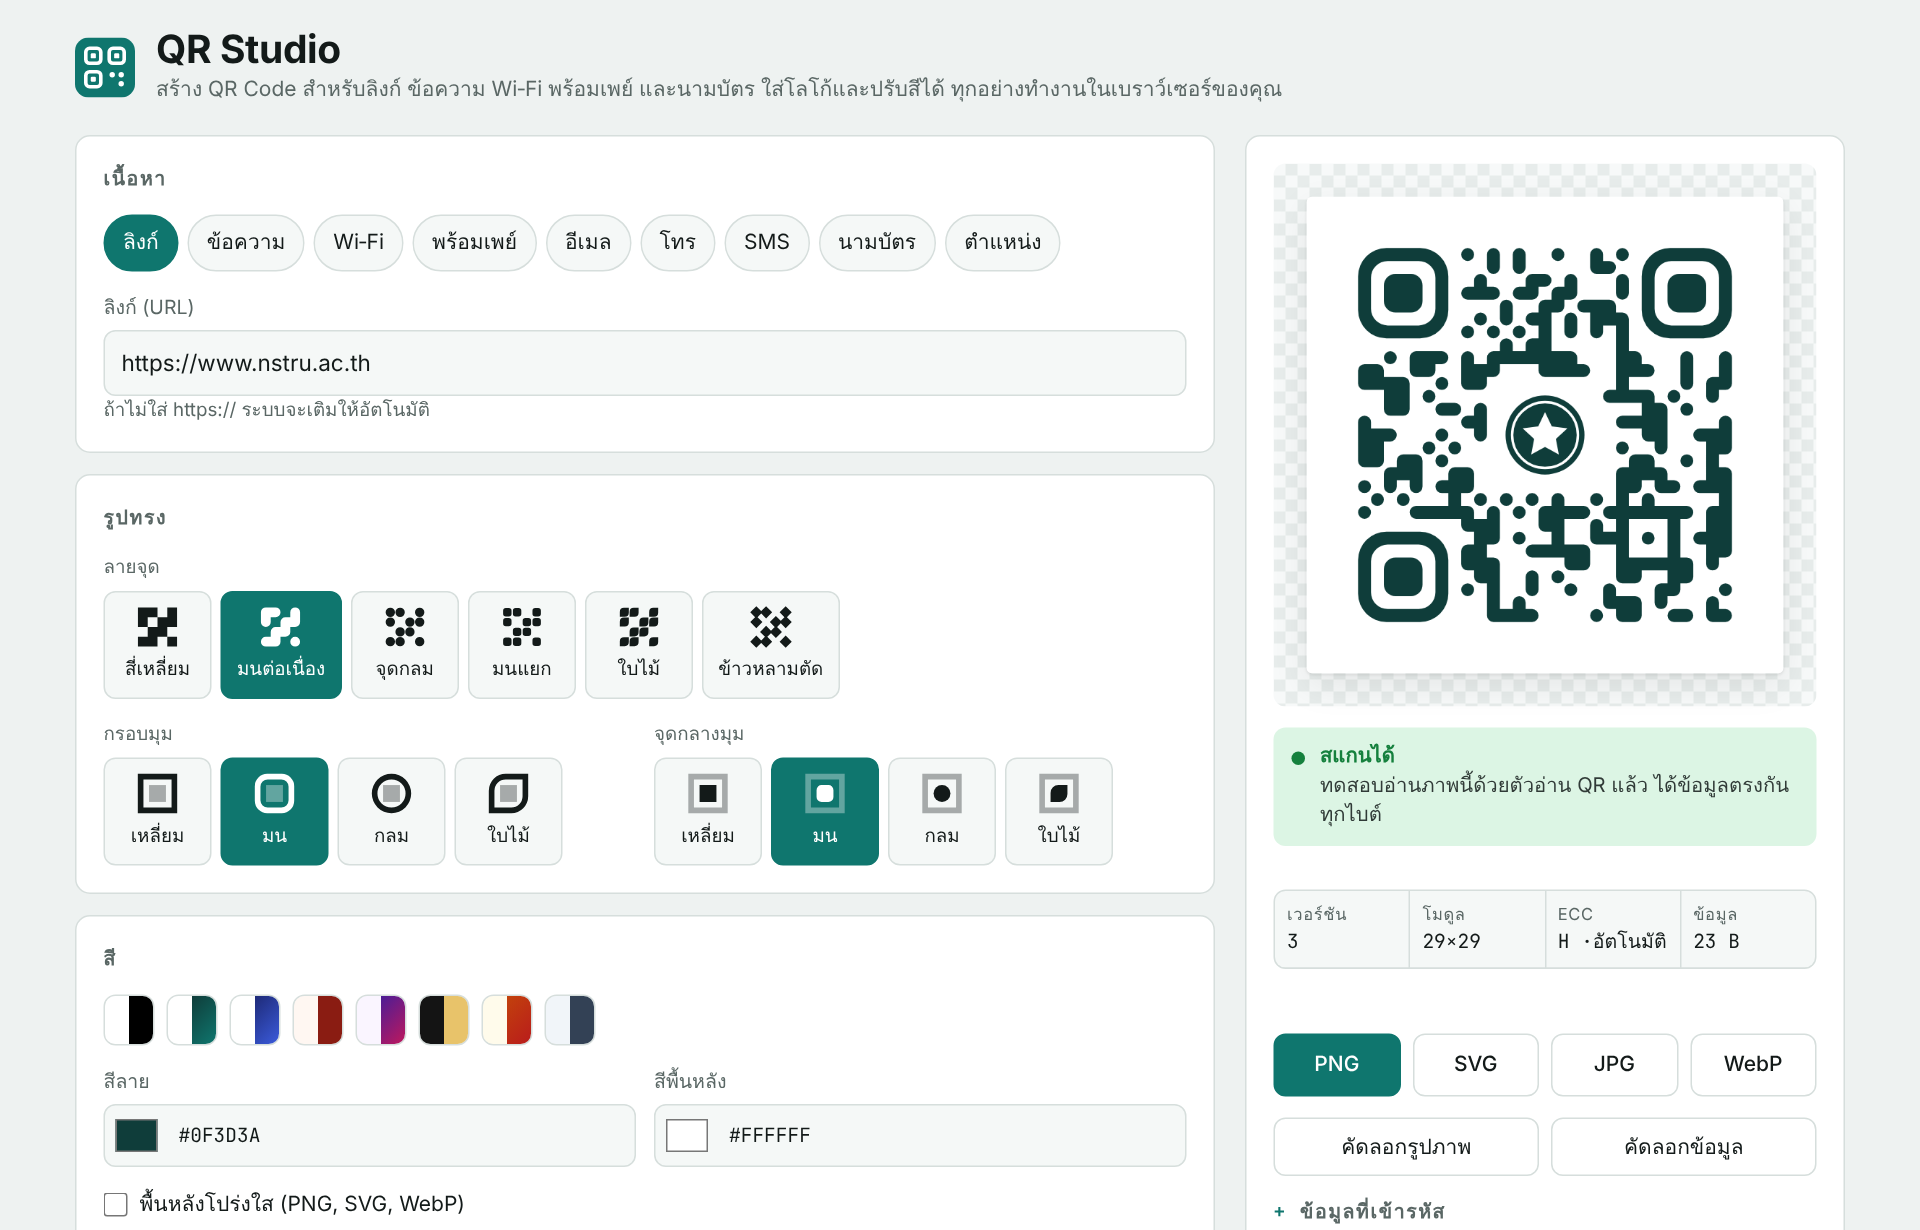
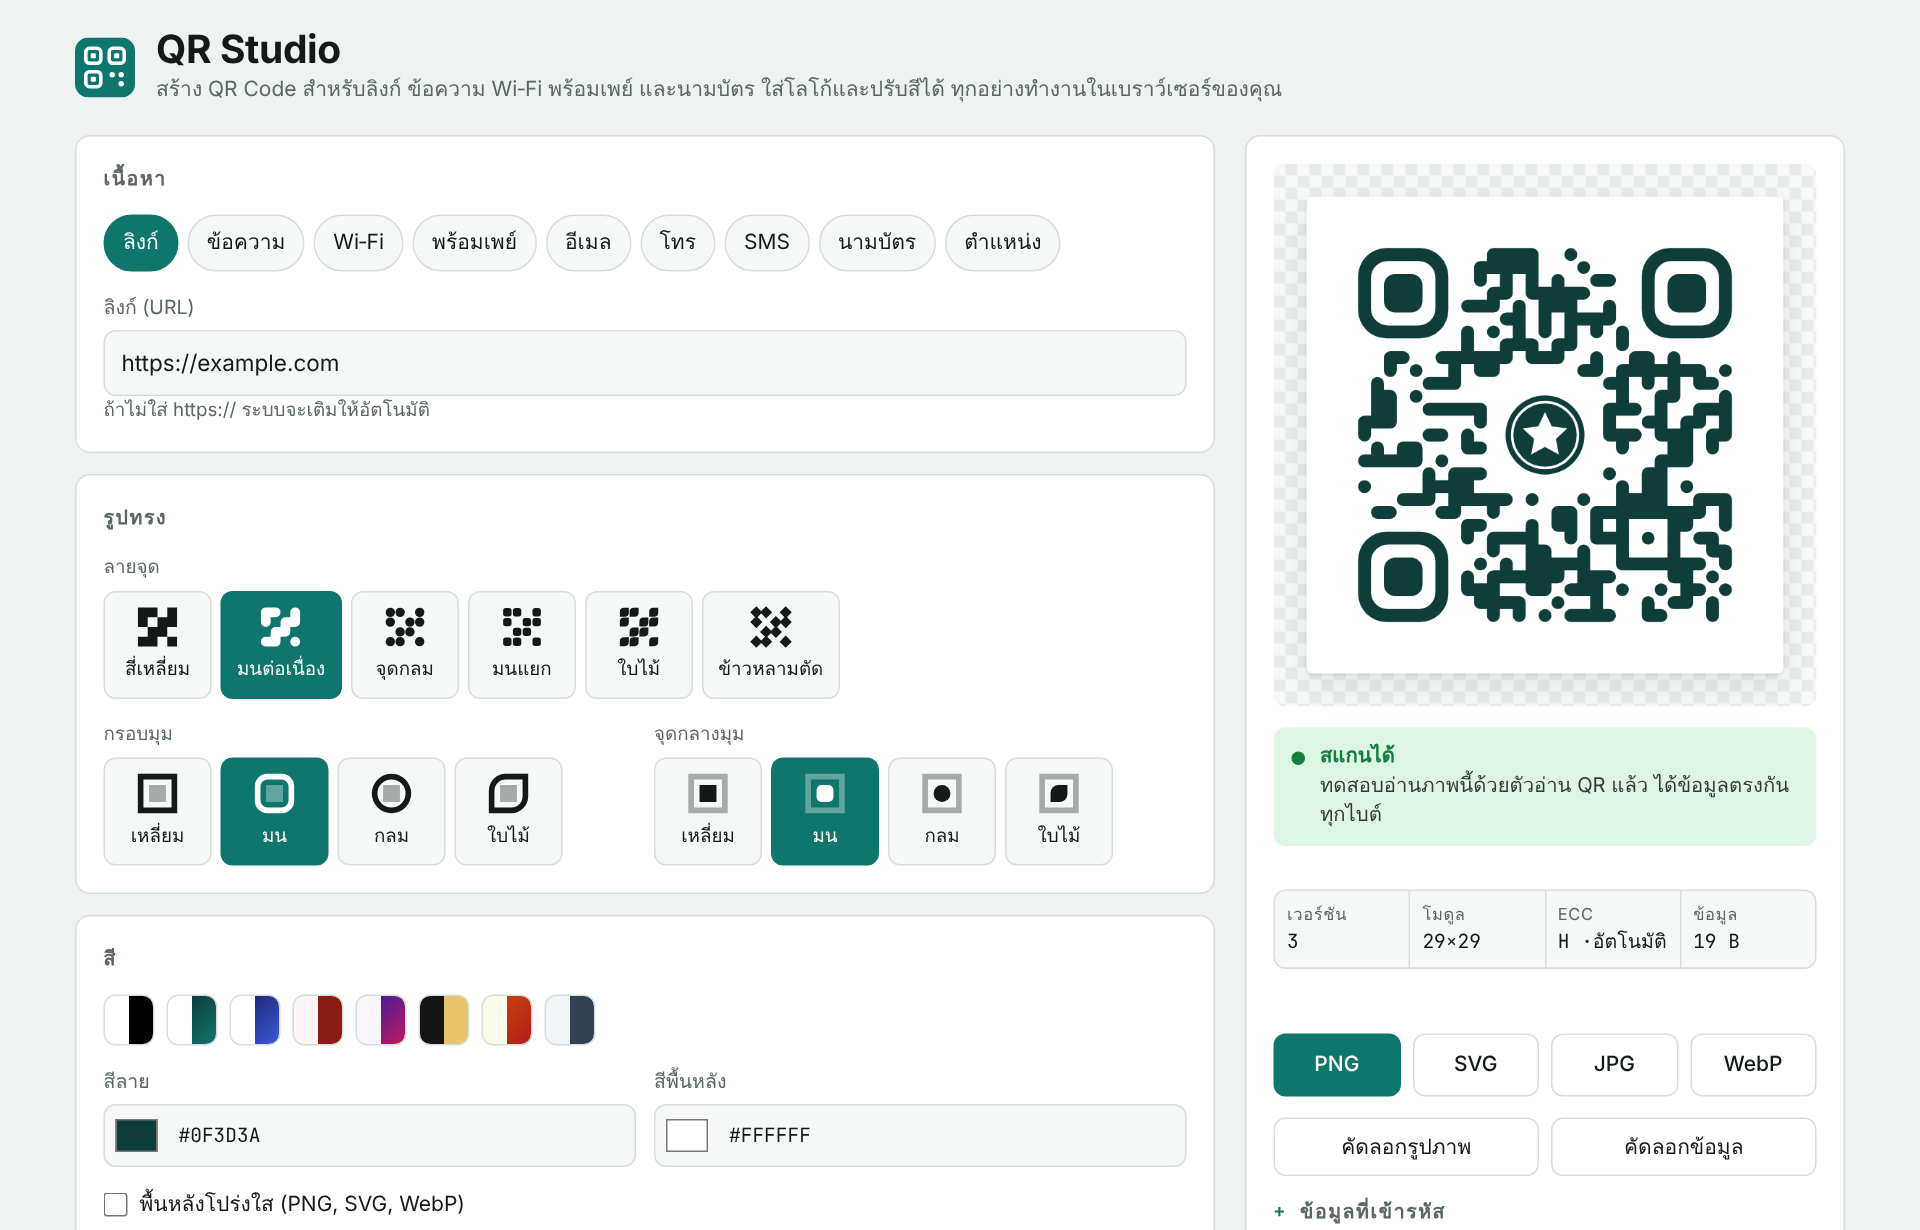
Replace institution-specific sample data with generic examples
Claude-Session: https://claude.ai/code/session_01GjWchWoexAVN7A2XWijXoU

Changed region(s): [[0.6875, 0.1854, 0.9062, 0.5252], [0.0938, 0.278, 0.1875, 0.3089]]

diff --git a/index.html b/index.html
@@ -156,15 +156,15 @@ details.adv[open] summary{margin-bottom:14px}
         </div>
 
         <div class="fields" data-type="url">
-          <label class="f"><span>ลิงก์ (URL)</span><input type="url" id="url" value="https://www.nstru.ac.th" placeholder="https://example.com" inputmode="url"></label>
+          <label class="f"><span>ลิงก์ (URL)</span><input type="url" id="url" value="https://example.com" placeholder="https://example.com" inputmode="url"></label>
           <p class="hint">ถ้าไม่ใส่ https:// ระบบจะเติมให้อัตโนมัติ</p>
         </div>
         <div class="fields" data-type="text" hidden>
-          <label class="f"><span>ข้อความ <output id="textCount">0</output></span><textarea id="text" placeholder="พิมพ์ข้อความภาษาไทยหรือภาษาอังกฤษ">สวัสดีครับ ยินดีต้อนรับสู่มหาวิทยาลัยราชภัฏนครศรีธรรมราช</textarea></label>
+          <label class="f"><span>ข้อความ <output id="textCount">0</output></span><textarea id="text" placeholder="พิมพ์ข้อความภาษาไทยหรือภาษาอังกฤษ">สวัสดีครับ นี่คือ QR Code ที่สร้างด้วย QR Studio</textarea></label>
         </div>
         <div class="fields" data-type="wifi" hidden>
           <div class="row">
-            <label class="f"><span>ชื่อเครือข่าย (SSID)</span><input type="text" id="wifiSsid" value="NSTRU-Guest"></label>
+            <label class="f"><span>ชื่อเครือข่าย (SSID)</span><input type="text" id="wifiSsid" value="MyHome-WiFi"></label>
             <label class="f"><span>รหัสผ่าน</span><input type="text" id="wifiPass" value="welcome2026"></label>
           </div>
           <div class="row">
@@ -186,7 +186,7 @@ details.adv[open] summary{margin-bottom:14px}
           <label class="f"><span>ข้อความ</span><textarea id="emailBody"></textarea></label>
         </div>
         <div class="fields" data-type="tel" hidden>
-          <label class="f"><span>เบอร์โทรศัพท์</span><input type="tel" id="telNum" value="075-377-443"></label>
+          <label class="f"><span>เบอร์โทรศัพท์</span><input type="tel" id="telNum" value="02-123-4567"></label>
         </div>
         <div class="fields" data-type="sms" hidden>
           <label class="f"><span>เบอร์ผู้รับ</span><input type="tel" id="smsNum" value="0812345678"></label>
@@ -212,8 +212,8 @@ details.adv[open] summary{margin-bottom:14px}
         </div>
         <div class="fields" data-type="geo" hidden>
           <div class="row">
-            <label class="f"><span>ละติจูด</span><input type="number" id="geoLat" step="any" value="8.4304"></label>
-            <label class="f"><span>ลองจิจูด</span><input type="number" id="geoLng" step="any" value="99.9631"></label>
+            <label class="f"><span>ละติจูด</span><input type="number" id="geoLat" step="any" value="13.7563"></label>
+            <label class="f"><span>ลองจิจูด</span><input type="number" id="geoLng" step="any" value="100.5018"></label>
           </div>
           <label class="check"><input type="checkbox" id="geoGmaps" checked> เปิดด้วยลิงก์ Google Maps (รองรับทุกเครื่อง)</label>
         </div>

diff --git a/src/artifact-body.html b/src/artifact-body.html
@@ -148,15 +148,15 @@ details.adv[open] summary{margin-bottom:14px}
         </div>
 
         <div class="fields" data-type="url">
-          <label class="f"><span>ลิงก์ (URL)</span><input type="url" id="url" value="https://www.nstru.ac.th" placeholder="https://example.com" inputmode="url"></label>
+          <label class="f"><span>ลิงก์ (URL)</span><input type="url" id="url" value="https://example.com" placeholder="https://example.com" inputmode="url"></label>
           <p class="hint">ถ้าไม่ใส่ https:// ระบบจะเติมให้อัตโนมัติ</p>
         </div>
         <div class="fields" data-type="text" hidden>
-          <label class="f"><span>ข้อความ <output id="textCount">0</output></span><textarea id="text" placeholder="พิมพ์ข้อความภาษาไทยหรือภาษาอังกฤษ">สวัสดีครับ ยินดีต้อนรับสู่มหาวิทยาลัยราชภัฏนครศรีธรรมราช</textarea></label>
+          <label class="f"><span>ข้อความ <output id="textCount">0</output></span><textarea id="text" placeholder="พิมพ์ข้อความภาษาไทยหรือภาษาอังกฤษ">สวัสดีครับ นี่คือ QR Code ที่สร้างด้วย QR Studio</textarea></label>
         </div>
         <div class="fields" data-type="wifi" hidden>
           <div class="row">
-            <label class="f"><span>ชื่อเครือข่าย (SSID)</span><input type="text" id="wifiSsid" value="NSTRU-Guest"></label>
+            <label class="f"><span>ชื่อเครือข่าย (SSID)</span><input type="text" id="wifiSsid" value="MyHome-WiFi"></label>
             <label class="f"><span>รหัสผ่าน</span><input type="text" id="wifiPass" value="welcome2026"></label>
           </div>
           <div class="row">
@@ -178,7 +178,7 @@ details.adv[open] summary{margin-bottom:14px}
           <label class="f"><span>ข้อความ</span><textarea id="emailBody"></textarea></label>
         </div>
         <div class="fields" data-type="tel" hidden>
-          <label class="f"><span>เบอร์โทรศัพท์</span><input type="tel" id="telNum" value="075-377-443"></label>
+          <label class="f"><span>เบอร์โทรศัพท์</span><input type="tel" id="telNum" value="02-123-4567"></label>
         </div>
         <div class="fields" data-type="sms" hidden>
           <label class="f"><span>เบอร์ผู้รับ</span><input type="tel" id="smsNum" value="0812345678"></label>
@@ -204,8 +204,8 @@ details.adv[open] summary{margin-bottom:14px}
         </div>
         <div class="fields" data-type="geo" hidden>
           <div class="row">
-            <label class="f"><span>ละติจูด</span><input type="number" id="geoLat" step="any" value="8.4304"></label>
-            <label class="f"><span>ลองจิจูด</span><input type="number" id="geoLng" step="any" value="99.9631"></label>
+            <label class="f"><span>ละติจูด</span><input type="number" id="geoLat" step="any" value="13.7563"></label>
+            <label class="f"><span>ลองจิจูด</span><input type="number" id="geoLng" step="any" value="100.5018"></label>
           </div>
           <label class="check"><input type="checkbox" id="geoGmaps" checked> เปิดด้วยลิงก์ Google Maps (รองรับทุกเครื่อง)</label>
         </div>

diff --git a/README.md b/README.md
@@ -108,14 +108,14 @@ python3 -m http.server 8000
 
 | ประเภท | ตัวอย่าง |
 | --- | --- |
-| ลิงก์ | `https://www.nstru.ac.th` |
-| Wi‑Fi | `WIFI:T:WPA;S:NSTRU-Guest;P:welcome2026;;` |
+| ลิงก์ | `https://example.com` |
+| Wi‑Fi | `WIFI:T:WPA;S:MyHome-WiFi;P:welcome2026;;` |
[1 lines of base64/hex data omitted]
 | อีเมล | `mailto:contact@example.com?subject=...` |
-| โทร | `tel:075377443` |
+| โทร | `tel:021234567` |
 | SMS | `SMSTO:0812345678:ข้อความ` |
 | นามบัตร | `BEGIN:VCARD` … `END:VCARD` |
-| ตำแหน่ง | `https://maps.google.com/?q=8.4304,99.9631` |
+| ตำแหน่ง | `https://maps.google.com/?q=13.7563,100.5018` |
 
 ## โครงสร้างโปรเจกต์
 
